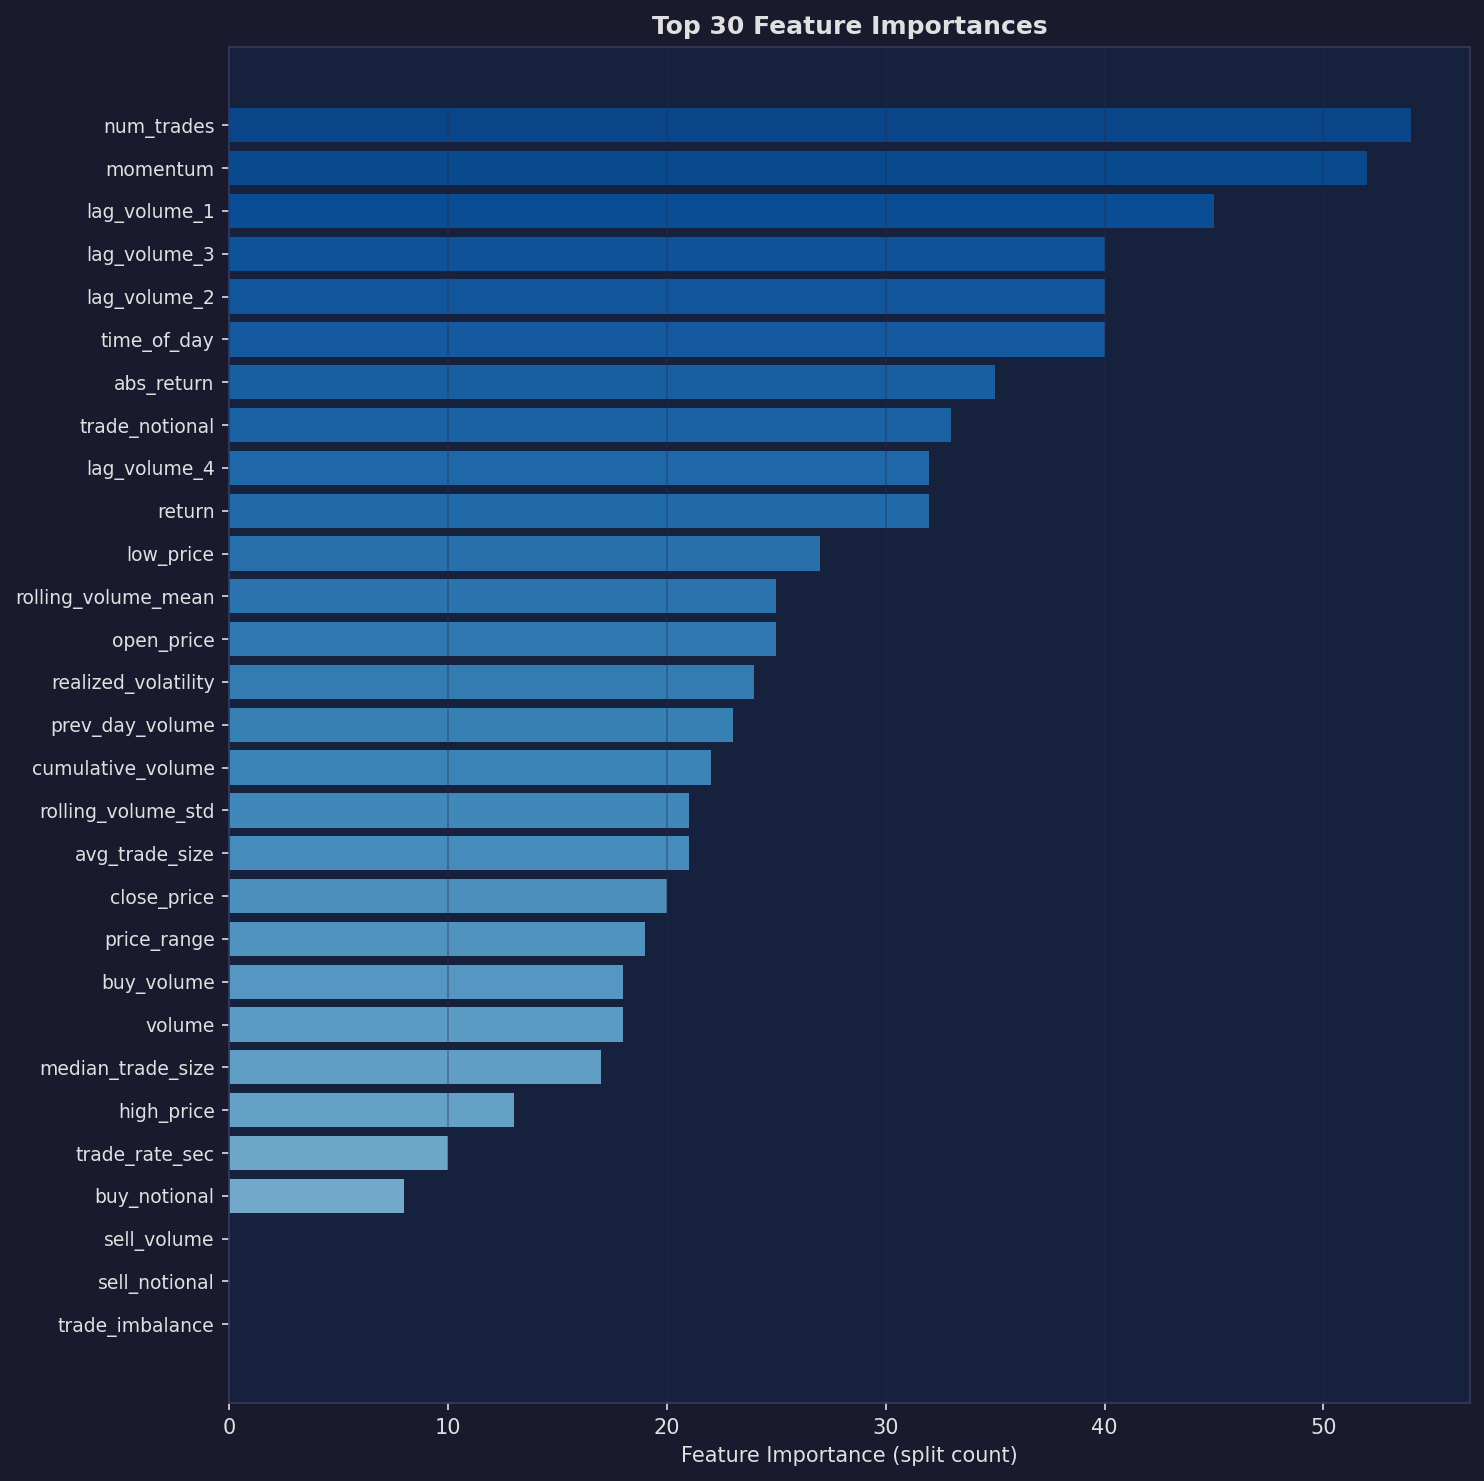
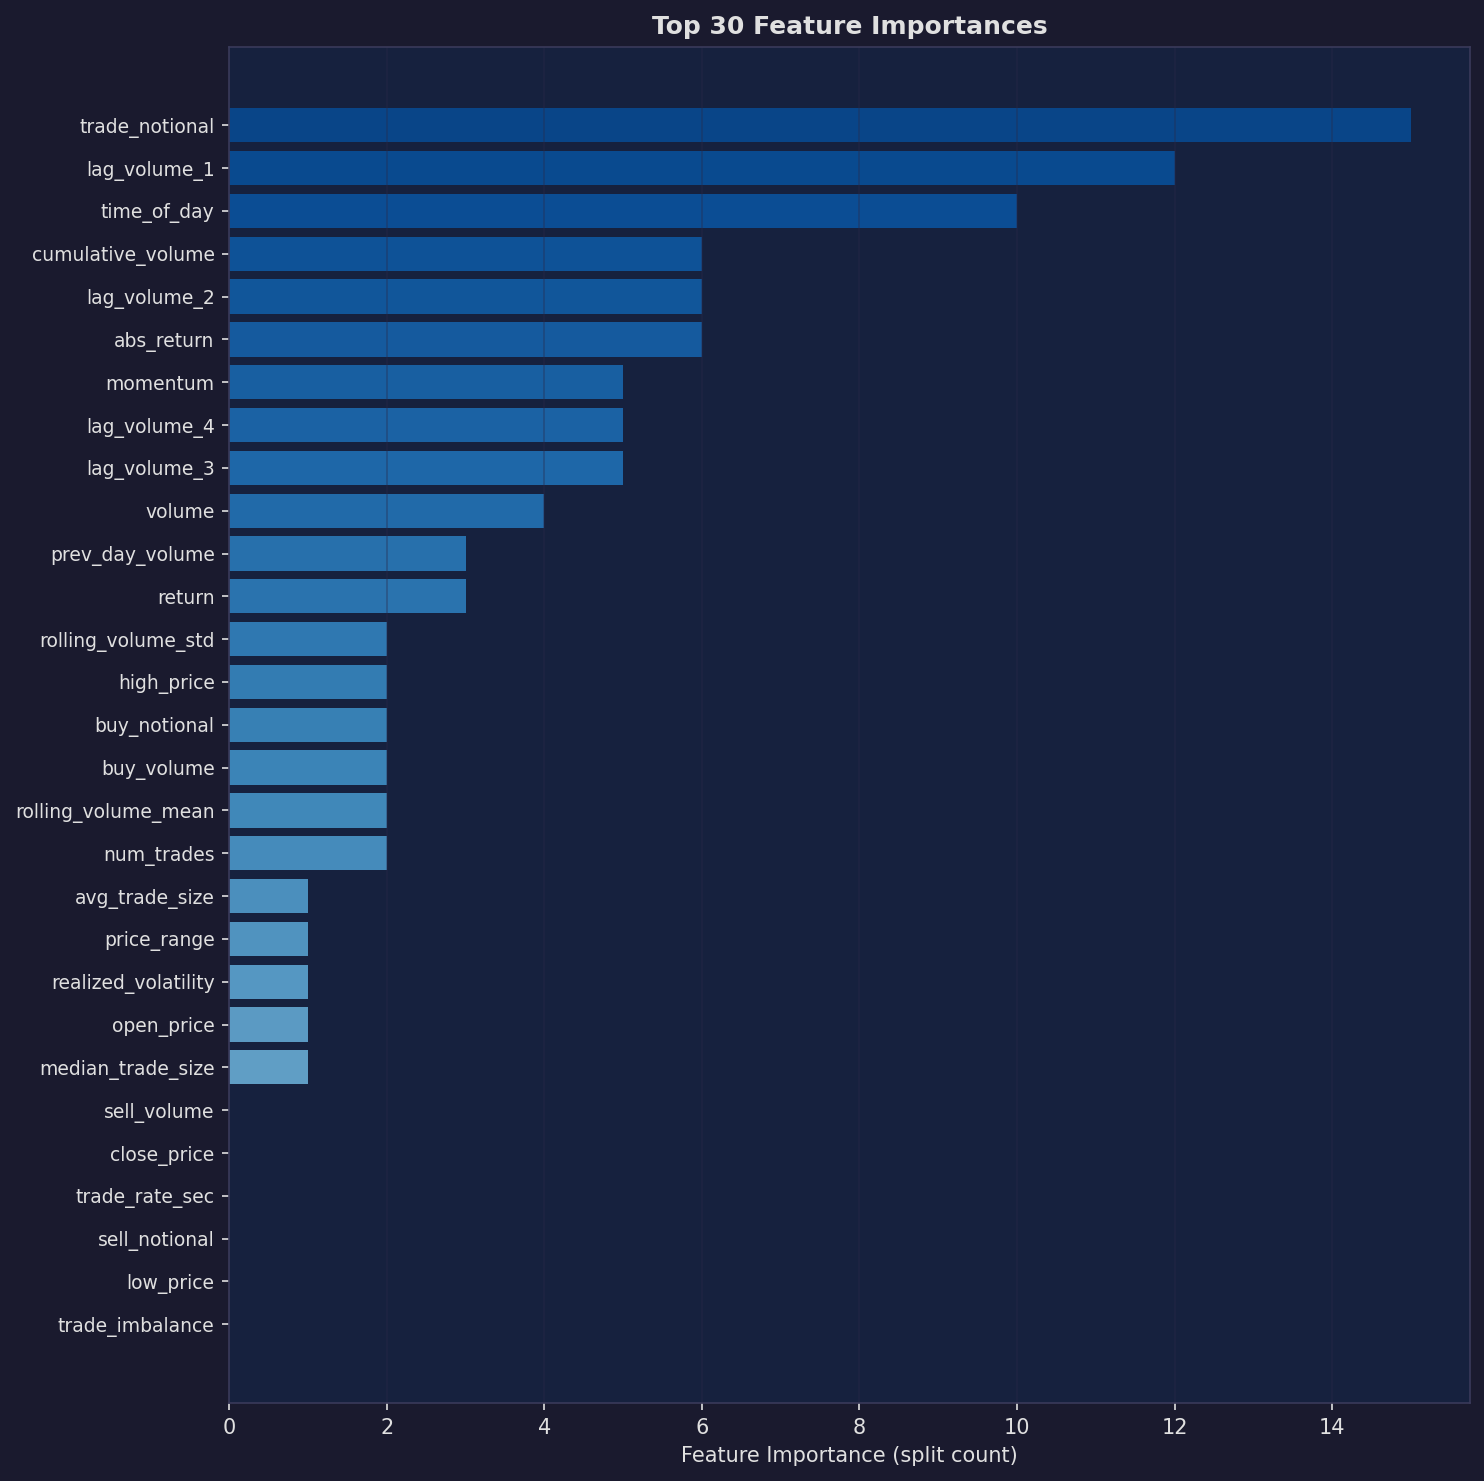
Update lightgbm.py to use binance

diff --git a/lightgbm.py b/lightgbm.py
@@ -35,7 +35,7 @@ from sklearn.metrics import r2_score, mean_squared_error, mean_absolute_error
 optuna.logging.set_verbosity(optuna.logging.WARNING)
 
 # ── constants ──────────────────────────────────────────────────────────────────
-DATA_PATH  = "BTC-USDT_features_15min.parquet"
+DATA_PATH  = "features_by_exchange/BTC-USDT_features_BINANCE_15min.parquet"
 TEST_FRAC  = 0.10
 N_SPLITS   = 5
 N_TRIALS   = 50
